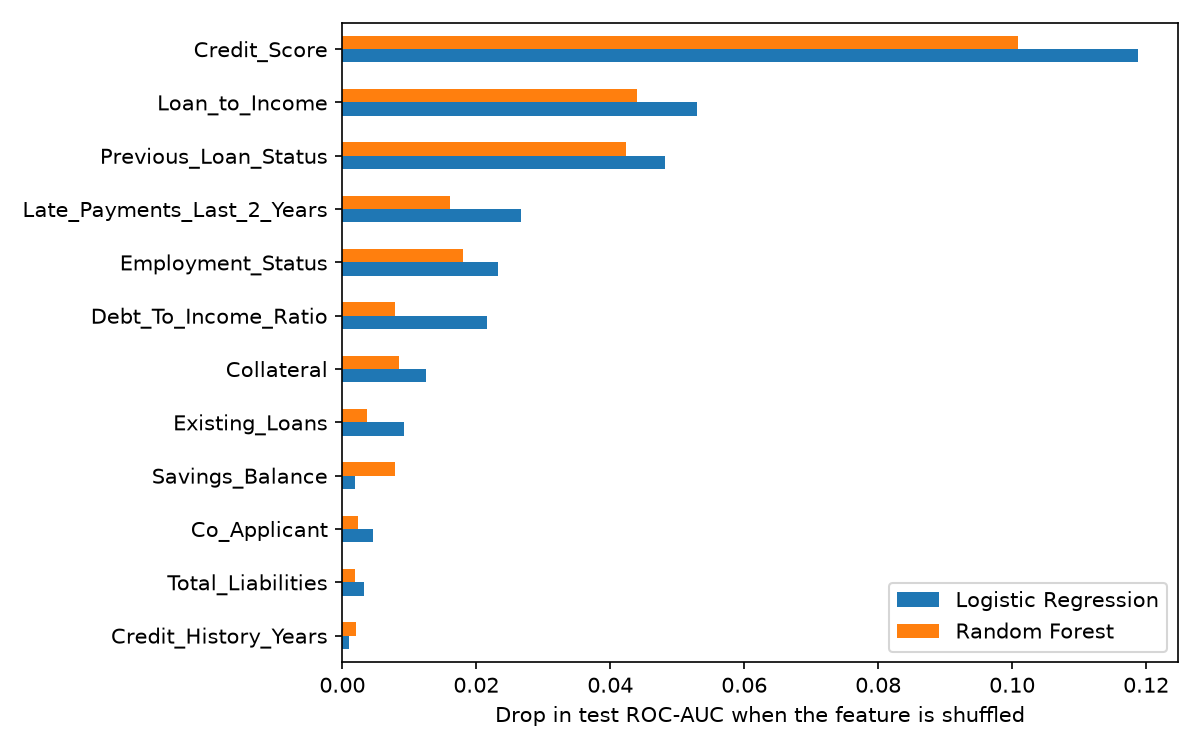
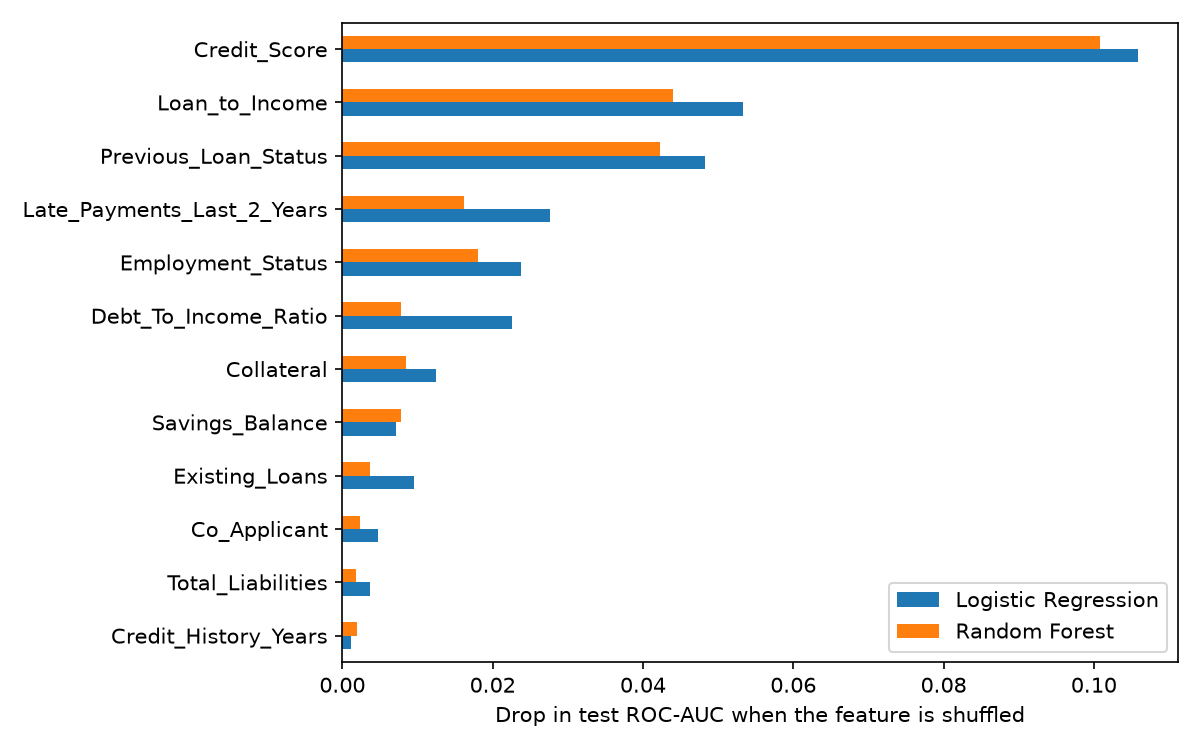
fix logic with Savings_Balance, re ran ML models

diff --git a/src/app.py b/src/app.py
@@ -192,7 +192,7 @@ axes.ravel()[-1].axis("off")   # 7 plots in 8 slots
 plt.tight_layout()
 fig.savefig("figures/outlier_boxplots.png", dpi=150)
 st.pyplot(fig)
-st.caption("Figure 1. Boxplots by approval outcome. Rejected applicants have higher loan amounts, total liabilities, monthly debt payments, and DTI, while approved applicants have higher annual income, total assets, and savings balances. Outliers echo the tail of a right skewed distribution for most plots. One interesting outlier group is approved applicants with very low annual income. There are probably other borrow characteristics (collateral, co-applicant...) that explain why they were approved despite low income, so this is worth exploring later.")
+st.caption("Figure 1. Boxplots by approval outcome. Rejected applicants have higher loan amounts, total liabilities, monthly debt payments, and DTI, while approved applicants have higher annual income, total assets, and savings balances. Outliers echo the tail of a right skewed distribution for most plots. One interesting outlier group is approved applicants with very low annual income. This is a small group pattern.")
 
 log_check = pd.DataFrame({
     "skew_raw": df_clean[skewed].skew().round(2),
@@ -209,7 +209,7 @@ cap_info = {
 st.write("**Skewness before and after a log transform**")
 st.dataframe(log_check)
 
-hist_cols = skewed + ["Savings_Balance"]   # Savings_Balance is also being log-transformed
+hist_cols = skewed + ["Savings_Balance"]   
 
 fig2, axes2 = plt.subplots(2, 4, figsize=(18, 7))
 for ax, c in zip(axes2.ravel(), hist_cols):
@@ -269,18 +269,21 @@ st.write(
     "For Logistic Regression, I agree with keeping Annual_Income, Loan_Amount, Credit_Score, "
     "and Age as is, because their skews are low and their outliers are legitimate extremes "
     "(a log transform would actually worsen Annual_Income, moving its skew from 0.07 to about -1.75). "
+    "I also agree with keeping Total_Assets (skew 0.74) and Savings_Balance (skew 0.87) as is. "
+    "Both skews are below about 1, and the high values are legitimate wealthy applicants, "
+    "so these outliers carry real signal. A log transform would also worsen Savings_Balance "
+    "(skew -4.11), because about 2.5% of applicants have a balance of exactly 0. "
     "I also agree with applying log1p to Total_Liabilities and Monthly_Debt_Payment, "
-    "whose skews (1.28 and 2.37) are high and which log1p corrects. "
-    "I modified two recommendations. First, Gemini proposed winsorizing Debt_To_Income_Ratio at 95, "
+    "whose skews (1.28 and 2.37) are high and which log1p reduces. "
+    "I modified one recommendation. Gemini proposed winsorizing Debt_To_Income_Ratio at 95, "
     "but 95 is already the column's maximum, so the cap would change nothing. "
     "I apply log1p instead to reduce its skew (2.44). "
-    "Second, Gemini kept Savings_Balance (skew 1.51) as is while transforming Total_Liabilities "
-    "(skew 1.28), which is inconsistent, so I apply log1p to every column whose skew exceeds about 1. "
-    "Total_Assets (skew 0.74) is moderately skewed but below that threshold, so it stays as is. "
+    "Overall, I apply log1p only to columns whose skew exceeds about 1. "
     "No rows will be removed, because the outliers appear to be legitimate extremes "
     "and deleting them would discard real borrower profiles. "
     "Values at apparent bounds, such as incomes of exactly 5,000, are kept and "
-    "noted as likely artifacts of the simulated data. (Note that Monthly_Debt_Payment and Loan_Amount were later removed as inputs in section 5)"
+    "noted as likely artifacts of the simulated data. "
+    "(Note that Monthly_Debt_Payment and Loan_Amount were later removed as inputs in section 5.)"
 )
 
 # ---------------------------------------------------------------
@@ -317,7 +320,7 @@ for ax, c in zip(axes.ravel(), cat_cols_clean):
 plt.tight_layout()
 st.pyplot(fig)
 fig.savefig("figures/approval_rate_by_category.png", dpi=150)
-st.caption("Figure 4. Approval rate within each category; the dashed line is the overall rate. Gender, Property_Ownership, Residential_Status, Application_Channel, Loan_Purpose, Region and Marital_Status show little to no variation in approval rate. Collateral, Co_Applicant, and Education_Level show moderate gaps, while Employment_Status and Previous_Loan_Status show the largest gaps. Applicants with a Co_Applicant or Collateral are more likely to be approved, and unemployed applicants or applicants who have previously defaulted are much less likely to be approved.")
+st.caption("Figure 4. Approval rate within each category; the dashed line is the overall rate. Gender, Property_Ownership, Residential_Status, Application_Channel, Loan_Purpose, Region and Marital_Status show little to no variation in approval rate. Collateral, Co_Applicant, and Education_Level show some gaps (section 4 later clarifies these gaps as small to neglible), while Employment_Status and Previous_Loan_Status show the largest gaps. Applicants with a Co_Applicant or Collateral are more likely to be approved, and unemployed applicants or applicants who have previously defaulted are much less likely to be approved.")
 
 # 3d. Approval rate by binned numeric variables
 st.subheader("3d. Approval Rate Across Credit Score and Debt-to-Income Ratio")
@@ -401,11 +404,11 @@ st.write("**My evaluation of the AI recommendation**")
 st.write("**Decision:** Modified")
 st.write(
     "I accepted Gemini's decision to use the Welch's t-test for the numeric variables, chi-squared tests for the categorical variables, effect sizes alongisde p-values, and ",
-    "a multiple testing correction (Bonferroni). I rejected its recommendation of the Mann-Whitney U test for some variables as that test was not covered in the course and Gemini's argument ",
+    "a multiple testing correction (I am, however, choosing standard Bonferroni for simplicity). I rejected its recommendation of the Mann-Whitney U test for some variables as that test was not covered in the course and Gemini's argument ",
     "for chosing it was inconsistent - It said the CLT justifies the t-test for N = 30,000. I will instead use Welch's t-test for all 5 numeric variables, report medians because of the skew, ",
     "and use Spearman correlation as a robustness check for Late_Payments (54% 0 count). I also rejected its cutoffs for judging importance since that would label most real effects as ",
-    "unimportant. I will check the chi-square expected-count assumption directly instead. ",
-    ""
+    "unimportant. I will check the chi-square expected-count assumption directly instead. Gemini counted 11 tests as provided in my prompt, however I added Previous_Loan_Status and Co_Applicant tests later ",
+    "after revisiting my Figure 4 interpretation."
 )   
 
 appr = df_clean[df_clean["Loan_Approved"] == "Approved"]
@@ -526,7 +529,7 @@ pairs.columns = ["feature_1", "feature_2", "corr"]
 high_pairs = pairs[pairs["corr"].abs() > 0.65].sort_values("corr", ascending=False).round(2)
 
 # Evidence 2: VIF, using the planned log1p transforms
-log_cols = ["Total_Liabilities", "Savings_Balance", "Monthly_Debt_Payment", "Debt_To_Income_Ratio"]
+log_cols = ["Total_Liabilities", "Monthly_Debt_Payment", "Debt_To_Income_Ratio"]
 X_vif = df_clean[num_cols].copy()
 X_vif[log_cols] = np.log1p(X_vif[log_cols])
 X_vif = (X_vif - X_vif.mean()) / X_vif.std()
@@ -547,7 +550,7 @@ You are a senior data scientist advising on feature selection for a loan approva
 CONTEXT
 - 30,000 applications; target is Loan_Approved (57.6% Approved, 42.4% Rejected).
 - Research question: which borrower characteristics most strongly predict approval? The goal is interpretation, not only accuracy.
-- Models: Logistic Regression (baseline, standardized features, log1p on Total_Liabilities, Savings_Balance, Monthly_Debt_Payment, Debt_To_Income_Ratio) and Random Forest (advanced, raw features). I will compare logistic regression coefficients with permutation importance from the forest.
+- Models: Logistic Regression (baseline, standardized features, log1p on Total_Liabilities, Monthly_Debt_Payment, Debt_To_Income_Ratio) and Random Forest (advanced, raw features). I will compare logistic regression coefficients with permutation importance from the forest.
 - Bank outputs (Risk_Score, Default_Risk, Approved_Amount, Interest_Rate) were already removed as leakage.
 - Remaining columns: Age, Gender, Marital_Status, Education_Level, Employment_Status, Job_Experience_Years, Annual_Income, Credit_Score, Credit_History_Years, Existing_Loans, Late_Payments_Last_2_Years, Loan_Amount, Loan_Term_Months, Loan_Purpose, Debt_To_Income_Ratio, Savings_Balance, Checking_Balance, Total_Assets, Total_Liabilities, Monthly_Debt_Payment, Property_Ownership, Residential_Status, Dependents, Co_Applicant, Collateral, Application_Channel, Region, Bank_Account_Age_Years, Previous_Loan_Status.
 
@@ -591,7 +594,7 @@ for c in ["Credit_History_Years", "Bank_Account_Age_Years"]:
 # 2. VIF after the planned drops, with and without the loan-to-income ratio
 final_drop = ["Age", "Gender", "Marital_Status", "Monthly_Debt_Payment", "Bank_Account_Age_Years"]
 num_final = [c for c in num_cols if c not in final_drop]
-log_cols_final = ["Total_Liabilities", "Savings_Balance", "Debt_To_Income_Ratio"]
+log_cols_final = ["Total_Liabilities", "Debt_To_Income_Ratio"]
 
 def vif_table(X):
     X = X.copy()
@@ -669,7 +672,7 @@ CATEGORICAL_FEATURES = [c for c in df_model.columns
 assert len(NUMERIC_FEATURES) == 14 and len(CATEGORICAL_FEATURES) == 10
 assert not {"Age", "Gender", "Marital_Status", "Monthly_Debt_Payment",
             "Bank_Account_Age_Years", "Loan_Amount"} & set(df_model.columns)
-LOG_FEATURES = ["Total_Liabilities", "Savings_Balance", "Debt_To_Income_Ratio"]  # logistic regression only
+LOG_FEATURES = ["Total_Liabilities", "Debt_To_Income_Ratio"]  # logistic regression only
 
 st.write(f"Final model dataset: {len(NUMERIC_FEATURES) + len(CATEGORICAL_FEATURES)} features "
          f"({len(NUMERIC_FEATURES)} numeric, {len(CATEGORICAL_FEATURES)} categorical).")
@@ -718,7 +721,7 @@ CONTEXT
 - Research question: which borrower characteristics most strongly predict approval? The goal is interpretation, not only accuracy.
 - Split: stratified 80/20, {len(X_train):,} training rows and {len(X_test):,} test rows. I plan 5-fold cross-validation on the training set.
 - Features: {len(NUMERIC_FEATURES)} numeric and {len(CATEGORICAL_FEATURES)} categorical, which become {n_encoded_lr} columns for logistic regression and {n_encoded_rf} for the random forest after one-hot encoding.
-- Logistic Regression (baseline): numerics standardized; Total_Liabilities, Savings_Balance, and Debt_To_Income_Ratio log1p-transformed first; categoricals one-hot encoded with the first level dropped.
+- Logistic Regression (baseline): numerics standardized; Total_Liabilities and Debt_To_Income_Ratio log1p-transformed first; categoricals one-hot encoded with the first level dropped.
 - Random Forest (advanced): raw numerics, one-hot categoricals.
 - Planned metrics: accuracy, precision, recall, F1, ROC-AUC, and a confusion matrix on the test set.
 - Remaining correlations between features are moderate (maximum VIF {vif_table(X_final).max():.1f}). Previous exploratory analysis found strong effects for Credit_Score, Late_Payments_Last_2_Years, Debt_To_Income_Ratio, Employment_Status, and Previous_Loan_Status.
@@ -830,11 +833,11 @@ axes[2].legend()
 plt.tight_layout()
 fig.savefig("figures/model_evaluation.png", dpi=150)
 st.pyplot(fig)
-st.caption("Figure 8. Test-set confusion matrices (left, middle) and ROC curves (right). Logistic regression classifies 4,850 of 6,000 "
-           "applications correctly (1,854 rejections and 2,996 approvals) and the random forest 4,881 (1,838 and 3,043). Both models make more "
-           "false approvals (688 and 704 applications the bank rejected but the model approves) than false rejections (462 and 415), which is "
+st.caption("Figure 8. Test-set confusion matrices (left, middle) and ROC curves (right). Logistic regression classifies 4,866 of 6,000 "
+           "applications correctly (1,877 rejections and 2,989 approvals) and the random forest 4,881 (1,838 and 3,043). Both models make more "
+           "false approvals (665 and 704 applications the bank rejected but the model approves) than false rejections (469 and 415), which is "
            "why recall is higher than precision. The two ROC curves are nearly identical and rise steeply above the chance line, consistent "
-           "with test AUCs of 0.888 and 0.889.")
+           "with test AUCs of 0.889 for both models.")
 
 st.subheader("5f. Feature Importance")
 
@@ -864,10 +867,10 @@ plt.tight_layout()
 fig.savefig("figures/feature_importance.png", dpi=150)
 st.pyplot(fig)
 st.caption("Figure 9. Permutation importance (drop in test ROC-AUC when a feature is shuffled) for the 12 most important features. "
-           "Credit_Score dominates in both models (about 0.12 for logistic regression and 0.10 for the random forest), followed by "
-           "Loan_to_Income and Previous_Loan_Status. The two rankings agree closely (Spearman correlation 0.95). Logistic regression "
+           "Credit_Score dominates in both models (about 0.11 for logistic regression and 0.10 for the random forest), followed by "
+           "Loan_to_Income and Previous_Loan_Status. The two rankings agree closely (Spearman correlation 0.93). Logistic regression "
            "assigns larger importance than the forest to most features, notably Debt_To_Income_Ratio and Late_Payments_Last_2_Years, "
-           "while the forest gives Savings_Balance more weight.")
+           "while Savings_Balance receives about the same importance in both models.")
 
 # Direction and size of effects from the logistic regression
 names = best_lr.named_steps["prep"].get_feature_names_out()
@@ -888,19 +891,19 @@ st.dataframe(pd.DataFrame({"actual approval rate": y_test.groupby(g).mean(),
 
 st.markdown("""
 **Model performance.** Both models perform far above the majority-class baseline of 57.6% accuracy. The logistic regression reaches a test
-ROC-AUC of 0.888 and accuracy of 0.808, and the random forest reaches 0.889 and 0.814. The difference is negligible, so the nonlinear
-model adds almost nothing over the linear baseline, which suggests the relationships between borrower characteristics and approval are largely
-additive. The random forest's training AUC (0.953) is much higher than its test AUC (0.889), but its cross-validated AUC (0.892) matches the
-test result, so this overfitting does not hurt generalization. The logistic regression shows no such gap (0.894 train, 0.888 test).
+ROC-AUC of 0.889 and accuracy of 0.811, and the random forest reaches 0.889 and 0.814. The AUCs are identical to three decimals, so the
+nonlinear model adds almost nothing over the linear baseline, which suggests the relationships between borrower characteristics and approval
+are largely additive. The random forest's training AUC (0.953) is much higher than its test AUC (0.889), but its cross-validated AUC (0.892)
+matches the test result, so this overfitting does not hurt generalization. The logistic regression shows almost no such gap (0.895 train, 0.889 test).
 
 The confusion matrices (Figure 8) show how the models err. Of the 6,000 test applications, 3,458 were approved by the bank and 2,542 were rejected.
-The logistic regression correctly identifies 2,996 of the approvals (recall 0.866) and 1,854 of the rejections, while the random forest
-identifies 3,043 approvals (recall 0.880) and 1,838 rejections. Both models make more false approvals (688 and 704 applications the model
-would approve but the bank rejected) than false rejections (462 and 415), so precision (about 0.81) is lower than recall, and the models
-reject only about 72 to 73% of the applications the bank actually rejected. This is the behavior a model tends to show when the
+The logistic regression correctly identifies 2,989 of the approvals (recall 0.864) and 1,877 of the rejections, while the random forest
+identifies 3,043 approvals (recall 0.880) and 1,838 rejections. Both models make more false approvals (665 and 704 applications the model
+would approve but the bank rejected) than false rejections (469 and 415), so precision (about 0.81 to 0.82) is lower than recall, and the models
+reject only about 72 to 74% of the applications the bank actually rejected. This is the behavior a model tends to show when the
 majority class is approval and the remaining decision logic is not captured by the available features.
 
-**Feature importance.** The two models agree closely (Spearman rank correlation = 0.95, p < 0.001), although the lower ranks are
+**Feature importance.** The two models agree closely (Spearman rank correlation = 0.93, p < 0.001), although the lower ranks are
 dominated by features whose importance is near zero, where the ordering is mostly noise. Credit_Score is by far the most important feature,
 followed by Loan_to_Income and Previous_Loan_Status. Employment_Status, Late_Payments_Last_2_Years, Collateral, and Debt_To_Income_Ratio
 come next. Region, Education_Level, Property_Ownership, Loan_Purpose, and Dependents contribute essentially nothing, which is consistent with
@@ -909,16 +912,16 @@ its information is largely captured by Loan_to_Income and Credit_Score, which sh
 feature's importance.
 
 **Direction and size of effects.** In the logistic regression, the largest effects are a previous default (odds ratio 0.05 relative to an
-active loan), unemployment (0.10 relative to business owners), and credit score (3.38 per standard deviation). A higher loan-to-income
-ratio (0.44 per standard deviation), more late payments (0.53), and a higher debt-to-income ratio (0.58) lower the odds of approval, while
-collateral (2.27) and a co-applicant (1.65) raise them. Coefficients are conditional on the other features, so the negative coefficient on
+active loan), unemployment (0.10 relative to business owners), and credit score (3.17 per standard deviation). A higher loan-to-income
+ratio (0.43 per standard deviation), more late payments (0.52), and a higher debt-to-income ratio (0.57) lower the odds of approval, while
+collateral (2.29) and a co-applicant (1.66) raise them. Coefficients are conditional on the other features, so the negative coefficient on
 Annual_Income and the positive one on Total_Liabilities should not be read as standalone effects, since the loan-to-income ratio and
 debt-to-income ratio already contain these variables.
 
 **Gender audit.** Gender was not a model input, so any difference in predictions would have to arise through correlated features.
 In the test set, the actual approval rate is 57.4% for women and 57.8% for men. The logistic regression predicts approval for
-61.9% of women and 61.0% of men, and the random forest for 63.2% and 61.9%. The gaps between genders (0.9 and 1.3 percentage points)
-are smaller than the roughly 2.5-point margin of sampling noise expected with about 3,000 applications per group, so this audit finds no
+61.7% of women and 60.3% of men, and the random forest for 63.2% and 61.9%. The gaps between genders (1.4 and 1.3 percentage points)
+are smaller than the roughly 2.5-point margin of sampling noise expected with about 3,000 applicants per group, so this audit finds no
 evidence that the models treat the genders differently. This agrees with the chi-square test on the full data, which found no
 association between gender and approval (V = 0.005). The audit has limits: it compares overall predicted approval rates and does not compare
 error rates between groups, and it covers only gender, since Age and Marital_Status were also excluded from the models but were not audited.
